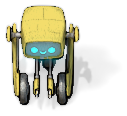
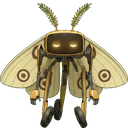
art: replace the paintbot cog rigs with nano-banana Softmax cogs, one kit per team (#3)
The two team sprites are now Gemini (nano-banana) renders of the canonical
Softmax cog, kitted so the team reads at board scale: the Owl warden in teal
carries a brass warden's lantern with goggle visor and shoulder searchlight,
the Moth in amber spreads cream wing panels with eye-spots under feathery
antennae. The source sheet is committed under scripts/art/source/ and
scripts/art/split_cog_sheet.py keys, splits (by connected component, since
the lantern hand reaches under the wing tip) and pads it into
client/art/cog_*_rig.png; build_art.py never wrote them and now says so.

The viewer keeps the rotate-about-solid-centroid rig path but stands the
sprite 60 px tall so the kit reads, and measures each rig's reach so the
team ring and alias label clear the wings and lantern whichever way it
turns. Nothing in the wasm bootstrap changed.

diff --git a/client/broadcast_core.js b/client/broadcast_core.js
@@ -62,18 +62,23 @@
     loadArt();
 
     // ---- cog rigs ----------------------------------------------------------
-    // Paintbot's soldier masters, used exactly as drawn: the canonical
-    // Cogs-vs-Clips cog facing SOUTH, visor visible. As in coworld-ctf's
-    // rig_art.nim the body pivot is the centroid of the SOLID pixels
-    // (alpha >= 200, the shell - not the feathered outline) and the master is
-    // scaled so that solid span stands RigBodyPx tall; the sprite then turns
-    // as one rigid unit so the visor faces the aim.
-    var RigBodyPx = 34;
+    // Nano-banana renders of the Softmax cog (scripts/art/split_cog_sheet.py),
+    // used exactly as drawn: facing SOUTH, visor visible, the Owl carrying a
+    // warden's lantern and the Moth spreading its wing panels. As in
+    // coworld-ctf's rig_art.nim the body pivot is the centroid of the SOLID
+    // pixels (alpha >= 200, the shell - not the feathered outline) and the
+    // master is scaled so that solid span stands RigBodyPx tall; the sprite
+    // then turns as one rigid unit so the visor faces the aim. RigBodyPx is
+    // big enough that the kit reads at board scale (a 128 px sprite drawn at
+    // 34 px was the old rig again); rig.reach is the scaled radius of the
+    // farthest solid pixel from the pivot, so rings and labels clear the kit.
+    var RigBodyPx = 60;
     var RigSolidAlpha = 200;
     var rigs = {};
     function measureRig(bitmap) {
       var w = bitmap.width, h = bitmap.height;
-      var rig = { bitmap: bitmap, px: w / 2, py: h / 2, scale: RigBodyPx / h };
+      var rig = { bitmap: bitmap, px: w / 2, py: h / 2, scale: RigBodyPx / h,
+                  reach: RigBodyPx / 2 };
       if (typeof OffscreenCanvas !== 'function') return rig;
       try {
         var scratch = new OffscreenCanvas(w, h);
@@ -93,6 +98,16 @@
         if (n) {
           rig.px = sx / n; rig.py = sy / n;
           rig.scale = RigBodyPx / Math.max(1, bottom - top + 1);
+          var far = 0;
+          for (var yy = 0; yy < h; yy++) {
+            for (var xx = 0; xx < w; xx++) {
+              if (data[(yy * w + xx) * 4 + 3] >= RigSolidAlpha) {
+                var dx = xx - rig.px, dy = yy - rig.py;
+                if (dx * dx + dy * dy > far) far = dx * dx + dy * dy;
+              }
+            }
+          }
+          rig.reach = Math.sqrt(far) * rig.scale;
         }
       } catch (ignored) { /* keep the geometric centre */ }
       return rig;
@@ -389,13 +404,15 @@
             context.strokeStyle = colour;
             context.lineWidth = 1.5;
             context.beginPath();
-            context.arc(cog.x, cog.y, RigBodyPx / 2 + 2, 0, Math.PI * 2);
+            // the team ring sits outside the kit (wings, lantern) whichever
+            // way the sprite is turned
+            context.arc(cog.x, cog.y, rig.reach + 3, 0, Math.PI * 2);
             context.stroke();
           }
           context.fillStyle = 'rgba(242, 232, 216, ' + (lit ? 0.9 : 0.35) + ')';
           context.font = '11px sans-serif';
           context.textAlign = 'center';
-          context.fillText(cog.alias, cog.x, cog.y - RigBodyPx / 2 - 5);
+          context.fillText(cog.alias, cog.x, cog.y - rig.reach - 6);
           continue;
         }
         context.save();

diff --git a/scripts/art/split_cog_sheet.py b/scripts/art/split_cog_sheet.py
@@ -1,0 +1,144 @@
+#!/usr/bin/env python3
+"""Splits the nano-banana cog sheet into the two team sprites.
+
+scripts/art/source/cogs_sheet.png is a single Gemini ("nano-banana") render
+of the Softmax cog in lantern's two team kits — the Owl warden (teal plating,
+brass warden's lantern, goggle visor, shoulder searchlight) and the Moth
+(amber plating, spread moth-wing panels with eye-spots, feathery antennae)
+— on a flat green backdrop. This script keys the backdrop out with an edge
+flood fill (so teal/green accents survive), splits the row into two, crops
+each to content, pads to a square and writes 128 px RGBA sprites:
+
+    python3 scripts/art/split_cog_sheet.py [outdir]
+
+Default outdir is client/art (the only art dir the bundle copies from; the
+replay-viewer build copies client/art into replay-viewer/dist/art).
+The viewer (client/broadcast_core.js) measures the solid-pixel centroid of
+each sprite at load and rotates it about that pivot, so the sprites stay
+front-facing ("south") here exactly like the old paintbot rigs.
+"""
+
+import os
+import sys
+from collections import deque
+
+from PIL import Image
+
+SRC = os.path.join(os.path.dirname(__file__), "source", "cogs_sheet.png")
+ROLES = ["cog_owl_rig.png", "cog_moth_rig.png"]
+SIZE = 128
+TOL = 60  # colour distance from the backdrop that still counts as backdrop
+
+
+def key_background(img):
+    img = img.convert("RGBA")
+    w, h = img.size
+    px = img.load()
+    # median of the border is robust to corner smudges in the render
+    border = [px[x, y][:3] for x in range(w) for y in (0, h - 1)] + \
+        [px[x, y][:3] for y in range(h) for x in (0, w - 1)]
+    bg = tuple(sorted(c[i] for c in border)[len(border) // 2] for i in range(3))
+
+    def near(p):
+        r, g, b = p[:3]
+        if sum((a - c) ** 2 for a, c in zip((r, g, b), bg)) ** 0.5 <= TOL:
+            return True
+        # the render paints a darker-green contact shadow under the wheels;
+        # it is still unmistakably backdrop hue, so the edge fill eats it too
+        return g > r + 40 and g > b + 40 and g >= bg[1] * 0.45
+
+    seen = bytearray(w * h)
+    q = deque()
+    for x in range(w):
+        for y in (0, h - 1):
+            q.append((x, y))
+    for y in range(h):
+        for x in (0, w - 1):
+            q.append((x, y))
+    while q:
+        x, y = q.popleft()
+        if x < 0 or y < 0 or x >= w or y >= h or seen[y * w + x]:
+            continue
+        seen[y * w + x] = 1
+        if not near(px[x, y]):
+            continue
+        px[x, y] = (0, 0, 0, 0)
+        q.extend(((x + 1, y), (x - 1, y), (x, y + 1), (x, y - 1)))
+    # soften the keyed edge: fade pixels still tinted toward the backdrop
+    for y in range(h):
+        for x in range(w):
+            r, g, b, a = px[x, y]
+            if a and g > r + 40 and g > b + 40 and abs(g - bg[1]) < 30 and abs(r - bg[0]) < 40:
+                px[x, y] = (r, g, b, 0)
+    return img
+
+
+def split(img):
+    """Separates the sheet into one sprite per character.
+
+    The two cogs overlap in x (the Owl's lantern hand reaches under the
+    Moth's wing tip), so a column scan cannot cut the row; instead the
+    opaque pixels are grouped into connected components, the big ones are
+    the characters, small bits inside (or just outside) a character's box
+    join it, and specks elsewhere in the backdrop are dropped.
+    """
+    alpha = img.getchannel("A").load()
+    w, h = img.size
+    label = [0] * (w * h)
+    comps = []
+    for sy in range(h):
+        for sx in range(w):
+            if label[sy * w + sx] or not alpha[sx, sy]:
+                continue
+            cid = len(comps) + 1
+            pixels = []
+            q = deque([(sx, sy)])
+            label[sy * w + sx] = cid
+            while q:
+                x, y = q.popleft()
+                pixels.append((x, y))
+                for nx, ny in ((x + 1, y), (x - 1, y), (x, y + 1), (x, y - 1)):
+                    if 0 <= nx < w and 0 <= ny < h and alpha[nx, ny] \
+                            and not label[ny * w + nx]:
+                        label[ny * w + nx] = cid
+                        q.append((nx, ny))
+            comps.append(pixels)
+    comps.sort(key=len, reverse=True)
+    big = sorted(comps[:len(ROLES)], key=lambda c: sum(x for x, _ in c) / len(c))
+    assert len(big) == len(ROLES), len(big)
+    boxes = [(min(x for x, _ in c), min(y for _, y in c),
+              max(x for x, _ in c), max(y for _, y in c)) for c in big]
+    for small in comps[len(ROLES):]:
+        cx = sum(x for x, _ in small) / len(small)
+        cy = sum(y for _, y in small) / len(small)
+        for i, (x0, y0, x1, y1) in enumerate(boxes):
+            pad = (x1 - x0) * 0.08
+            if x0 - pad <= cx <= x1 + pad and y0 - pad <= cy <= y1 + pad:
+                big[i].extend(small)
+                break
+        # anything else is a keyed-out speck in the backdrop: dropped
+    out = []
+    for pixels in big:
+        x0 = min(x for x, _ in pixels); x1 = max(x for x, _ in pixels) + 1
+        y0 = min(y for _, y in pixels); y1 = max(y for _, y in pixels) + 1
+        part = Image.new("RGBA", (x1 - x0, y1 - y0), (0, 0, 0, 0))
+        src = img.load(); dst = part.load()
+        for x, y in pixels:
+            dst[x - x0, y - y0] = src[x, y]
+        side = max(part.size)
+        sq = Image.new("RGBA", (side, side), (0, 0, 0, 0))
+        sq.paste(part, ((side - part.width) // 2, side - part.height))
+        out.append(sq.resize((SIZE, SIZE), Image.LANCZOS))
+    return out
+
+
+def main():
+    outdir = sys.argv[1] if len(sys.argv) > 1 else os.path.join(os.path.dirname(__file__), "..", "..", "client", "art")
+    os.makedirs(outdir, exist_ok=True)
+    for name, sprite in zip(ROLES, split(key_background(Image.open(SRC)))):
+        sprite.save(os.path.join(outdir, name))
+    print("cog sprites written to", outdir)
+
+
+if __name__ == "__main__":
+    main()

diff --git a/scripts/art/build_art.py b/scripts/art/build_art.py
@@ -3,9 +3,11 @@
 
 Real painted art, not placeholder rectangles: a warehouse floor with poured
 concrete grain and joint lines, wooden crates in their three states (loose,
-locked with visible bolts, broken into splintered planks), and the two cog
-rigs recoloured from paintbot's soldier master to Moth amber and Owl teal,
-with a lantern housing on the seeker rig.
+locked with visible bolts, broken into splintered planks) and the lockerroom
+plate. It no longer owns the cog sprites: client/art/cog_owl_rig.png and
+cog_moth_rig.png are nano-banana renders of the Softmax cog, produced from
+scripts/art/source/cogs_sheet.png by scripts/art/split_cog_sheet.py, and
+this script never writes them.
 
 The output is committed under client/art/ so the bundle stays hermetic — the
 replay viewer downloads nothing but the replay itself.
@@ -157,9 +159,8 @@ def main():
     crate("loose").save(os.path.join(OUT, "crate.png"))
     crate("locked").save(os.path.join(OUT, "crate_locked.png"))
     crate("broken").save(os.path.join(OUT, "crate_broken.png"))
-    # The cogs themselves are paintbot's soldier masters (coworld-ctf
-    # data/soldier_yellow.png -> cog_moth_rig.png, soldier_blue.png ->
-    # cog_owl_rig.png), copied in rather than painted here.
+    # The cogs (cog_owl_rig.png, cog_moth_rig.png) are nano-banana renders
+    # split out by scripts/art/split_cog_sheet.py, never painted here.
     locker_plate()
     print("wrote", ", ".join(sorted(os.listdir(OUT))))
 

diff --git a/AGENTS.md b/AGENTS.md
@@ -87,8 +87,13 @@ mouth.
 
 ## Changing the art
 
-`python3 scripts/art/build_art.py`. Committed output under `client/art/`; the
-bundle is hermetic and downloads nothing.
+`python3 scripts/art/build_art.py` for the floor, crates and lockerroom plate.
+The two cog sprites (`client/art/cog_owl_rig.png`, `cog_moth_rig.png`) are
+nano-banana (Gemini image) renders of the Softmax cog — the Owl warden with a
+brass lantern, the Moth with spread wing panels — regenerated from the
+committed sheet with `python3 scripts/art/split_cog_sheet.py`
+(`scripts/art/source/cogs_sheet.png`). Committed output under `client/art/`;
+the bundle is hermetic and downloads nothing.
 
 ## Testing
 
